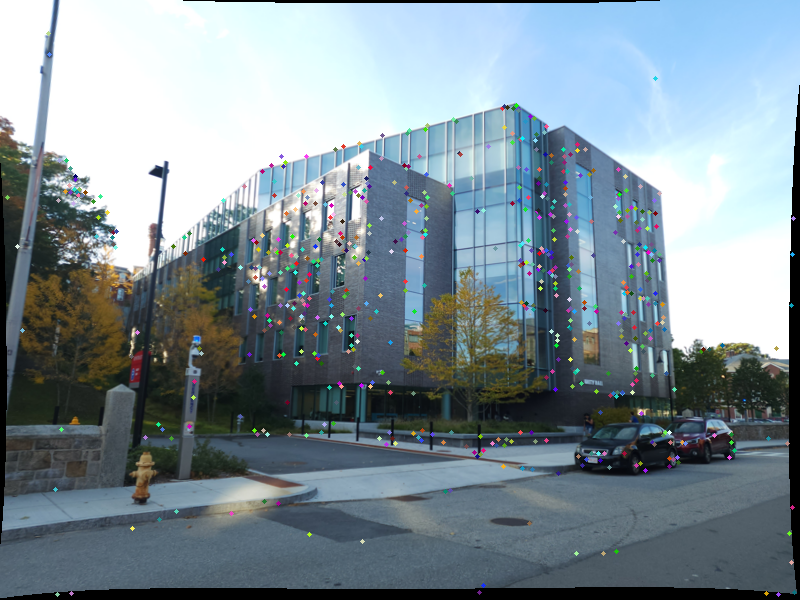
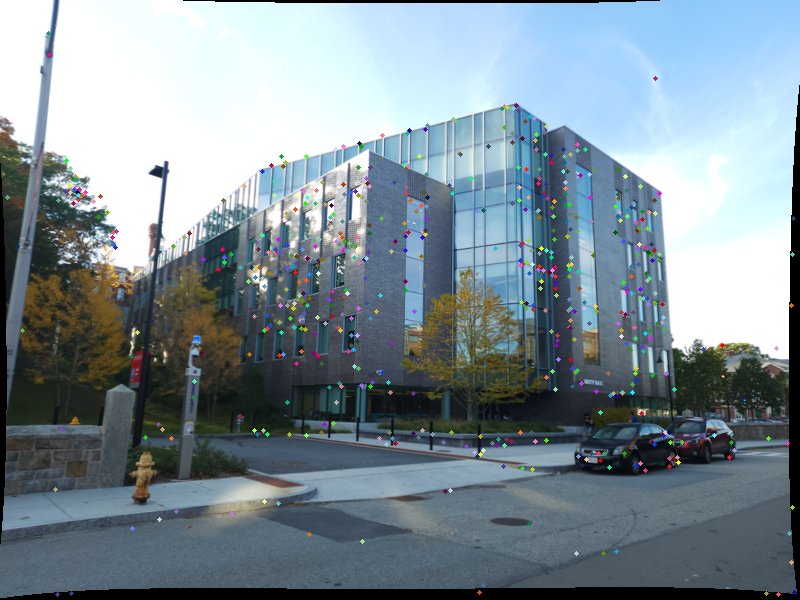
added PnPRANSAC

diff --git a/Phase1/main.py b/Phase1/main.py
@@ -12,6 +12,7 @@ from EstimateFundamentalMatrix import (
     cameraCalibrationCasADi,
 )
 from LinearPnp import LinearPnP
+from PnPRANSAC import PnPRANSAC
 import cv2 as cvw
 
 
@@ -234,12 +235,17 @@ def main():
             master_list = np.hstack([pts3D_4xN_casadi.T,np.ones((inliersA_og.shape[0],1),dtype=int),inliersA_og,2*np.ones((inliersA_og.shape[0],1),dtype=int),inliersB_og])
             master_list = master_list.tolist()
             print("Master List length: ",len(master_list))
-
+            P = [P1, P2]
         iteration = iteration + 1
     # Traverse in the data list for each new image
     # for image i, get all pairs till i-1 (because you have world coordinates for i-1)
     for i in range(3,n+1):
-        # if(i==3):
+        # Store the world coordinates corresponding to each new image i (remember shape is features x 4)
+        X_i = np.empty([0,3])
+        # store the corresponding image i pixels in another array 
+        x_i = np.empty([0,2]) 
+        # complete tringulation related to image i wrt all images j
+        triangulate_j_list = []
         # for image i get images from 1 to i-1
         for j in range(1,i):
             # obtain the index of the data list match images (j,i)
@@ -249,17 +255,17 @@ def main():
             dl = data_list[int(match_idx)]
             # get the uv indexes for j and i
             uv_j, uv_i, uv_j_c, uv_i_c = SetData(dl,K)
+            # Perform RANSAC to remove outliers
             uv_j = uv_j.T[:,:2]
             uv_i = uv_i.T[:,:2]
-            uv_j_c = uv_j_c.T[:,:2]
-            uv_i_c = uv_i_c.T[:,:2]
             print("Shape uv_j", uv_j.shape)
             # store indexes of array which need triangulation
-            needs_traingulation_idxs_list = []
+            needs_triangulation_idxs_list = []
             # for each row in uv_j
             for a,each_row in enumerate(uv_j):
-                # and each row in Master list
+                # Flag to check if the point is already added in the master list
                 flag_a_in_ml = 0
+                # and each row in Master list
                 for each_Mrow in master_list:
                     # calculate the length of the Master list row
                     Mrow_len = len(each_Mrow)
@@ -269,10 +275,6 @@ def main():
                         if(each_Mrow[3+3*k+1] == j):
                             if(each_Mrow[3+3*k+2]==each_row[0] and each_Mrow[3+3*k+3]==each_row[1]):
                                 flag_a_in_ml = 1
-                                print("Master list u: ",each_Mrow[3+3*k+2])
-                                print("master_list v:", each_Mrow[3+3*k+3])
-                                print("Image j u: ", each_row[0])
-                                print("image j v: ", each_row[1])
                                 m = k+1
                                 flag = 0
                                 while(3 + 3*m +1 < Mrow_len):
@@ -285,13 +287,49 @@ def main():
                                 each_Mrow.append(i)
                                 each_Mrow.append(uv_i[a,0])
                                 each_Mrow.append(uv_i[a,1])
+                                X_i = np.vstack([X_i,each_Mrow[:3]])
+                                x_i = np.vstack([x_i,uv_i[a]])
                                 break
-
                         k = k+1
                 if(flag_a_in_ml == 0):
                     #store the index list in the matching list for which there is no world point
-                    needs_traingulation_idxs_list.append(a)
-    print(master_list)
+                    needs_triangulation_idxs_list.append(a)
+            # print("Needs Triangulation len: ", len(needs_triangulation_idxs_list))
+            # print("Needs triangulation list: ", needs_triangulation_idxs_list)
+            triangulate_j_list.append(needs_triangulation_idxs_list)
+        
+        # Calculate the P matrix
+        P_i,inlier_idxs = PnPRANSAC(X_i,x_i,K)
+        print(P_i)
+        print(len(inlier_idxs))
+        # P_i = LinearPnP(X_i,x_i,K)
+        P.append(P_i)
+
+        ## Uncomment the below lines
+        # # Triangulate to get new world points
+        # for j in range(1,i):
+        #     # obtain the index of the data list match images (j,i)
+        #     match_idx = (j-1)*(10-j)/2 + i-j-1
+        #     # get the list matching[ji]
+        #     print("Match idx", match_idx)
+        #     dl = data_list[int(match_idx)]
+        #     # get the uv indexes for j and i
+        #     uv_j, uv_i, uv_j_c, uv_i_c = SetData(dl,K)
+        #     # Perform RANSAC to remove outliers (need to implement)
+
+        #     # Perform triangulation to get new world points
+        #     print(triangulate_j_list[j-1])
+        #     AA = uv_j[:,triangulate_j_list[j-1]]
+        #     print(type(AA))
+        #     print(AA)
+        #     # BB = uv_i[:,triangulate_j_list[j-1]]
+        #     pts3D_4xN = triangulatePoints(uv_j[:,triangulate_j_list[j-1]], uv_i[:,triangulate_j_list[j-1]], P[j-1], P[i-1])
+        #     # Perform non-linear triangulation (need to implement)
+
+        #     # Store the world points, img ids and img pixels in master list (need to implement)
+
+
+
     with open('./P2Data/Matches/master_list.txt', 'w', newline='') as file:
         writer = csv.writer(file, delimiter=' ')
         # Write each list as a row

diff --git a/Phase1/PnPRANSAC.py b/Phase1/PnPRANSAC.py
@@ -1,5 +1,49 @@
 import numpy as np
 import os
 import cv2
+import random
+from LinearPnp import LinearPnP
 
-# def PnPRANSAC():
+def PnPRANSAC(X_i,x_i,K,N=10,Tau=50):
+    """
+    Compute RANSAC for the new image by calculating the reprojection error.
+    Get the inlier points with repect to the world coordinates.
+    Inputs: X_i - (N,3) ndarray of World points
+            x_i - (N,2) ndarray of image pixels
+            K   - Intrinsic camera matrix
+            Tau - Error threshold
+    """
+    # Current length of inlier list
+    n = 0
+    S_in = []
+    # Run for 1000 iterations
+    row_indices = list(range(X_i.shape[0]))
+    X_i = np.hstack((X_i,np.ones((X_i.shape[0],1))))
+    for i in range(N):
+        # Choose 6 correspondences of X-i and x-i randomly
+        random_row_indices = random.sample(row_indices, 6)
+        X_i_sample = X_i[random_row_indices][:,:3]
+        x_i_sample = x_i[random_row_indices]
+        R, C = LinearPnP(X_i_sample,x_i_sample,K)
+        # print(R)
+        P = K @ R @ np.hstack((np.eye(3), -C.reshape(-1, 1)))
+        # print(X_i_sample)
+        S = []
+        for j in range(X_i.shape[0]):
+            # e = (x_i[j][0] - (P[:,0].T@X_i[j,:])/(P[:,2].T@X_i[j,:]))**2 + (x_i[j][1] - (P[:,1].T@X_i[j,:])/(P[:,2].T@X_i[j,:]))**2
+            X_proj_u = np.dot(P[0], X_i[j,:].T)
+            X_proj_v = np.dot(P[1], X_i[j,:].T)
+            denom = np.dot(P[2], X_i[j,:].T)
+
+            X_proj_norm_u = X_proj_u / denom
+            X_proj_norm_v = X_proj_v / denom
+            e = (x_i[j][0] - X_proj_norm_u)**2 + (x_i[j][1] - X_proj_norm_v)**2
+            e = np.sqrt(e)
+            if e < Tau:
+                S.append(j)
+        if(len(S)>n):
+            S_in = S
+            n = len(S)
+    return P,S_in
+
+    

diff --git a/Phase1/LinearPnp.py b/Phase1/LinearPnp.py
@@ -4,26 +4,42 @@ import os
 
 import scipy.linalg
 
-def LinearPnP(X,dl,K):
+def LinearPnP(X_i,x_i,K):
+    """
+    Calculate the P matrix
+    Inputs: X_i - (6,3) ndarray of World points
+            x_i - (6,2) ndarray of image pixels
+            K   - Intrinsic matrix
+    Outputs:R  - Rotation Matrix
+            C  - Camera center wrt to world frame 
+    """
+    x_i_homo = np.hstack((x_i,np.ones((x_i.shape[0],1))))
+    img_x_i = np.linalg.inv(K) @ x_i_homo.T
+    norm_x_i = (img_x_i/img_x_i[2, :]).T
     A = np.empty([0,12])
-    for i,data in enumerate(dl):
+    I = np.eye(3)
+    for i,data in enumerate(x_i_homo):
         u = float(data[0])
         v = float(data[1])
-        x = X[i][0]
-        y = X[i][1]
-        z = X[i][2]
+        x = X_i[i][0]
+        y = X_i[i][1]
+        z = X_i[i][2]
         row = np.array([[x, y, z, 1, 0, 0, 0, 0, -u*x, -u*y, -u*z, -u],
                         [0, 0, 0, 0, x, y, z, 1, -v*x, -v*y, -v*z, -v]])
-        np.vstack((A,row))
-    
+        A = np.vstack((A,row))
     _,_,V = scipy.linalg.svd(A)
     P = V[-1]
     P = np.reshape(P,(3,4))
-    R_init = np.matmul(np.linalg.pinv(K),P[:,:3])
+    R_init = np.linalg.inv(K)@P[:,:3]
     Ur,Dr,Vr = scipy.linalg.svd(R_init)
     R = np.matmul(Ur,Vr)
     gamma = Dr[0]
-    T = np.matmul(np.linalg.pinv(K),P[:,3])/gamma
+    # T = P[:,3]
+    if np.linalg.det(R) < 0:
+        R = -R
+        # T = -T
+        
+    C = - np.linalg.inv(K)@P[:,3]/gamma
 
-    return R,T
+    return R, C
 
